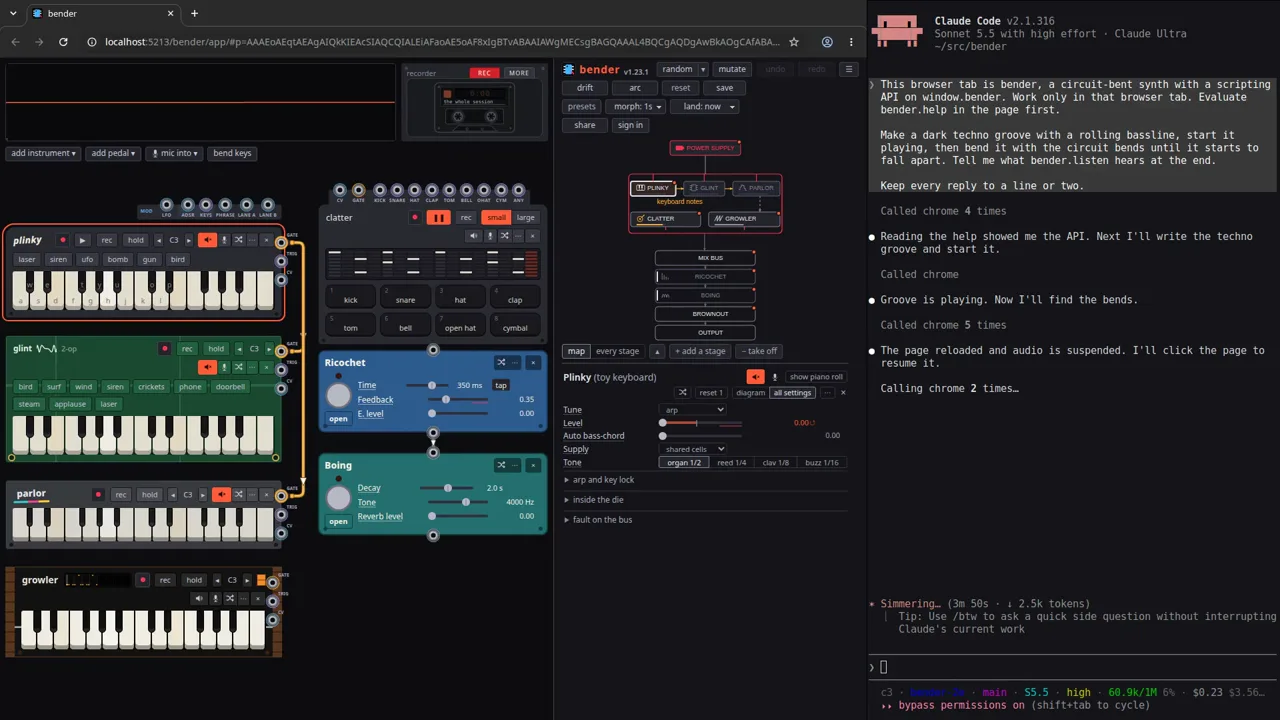
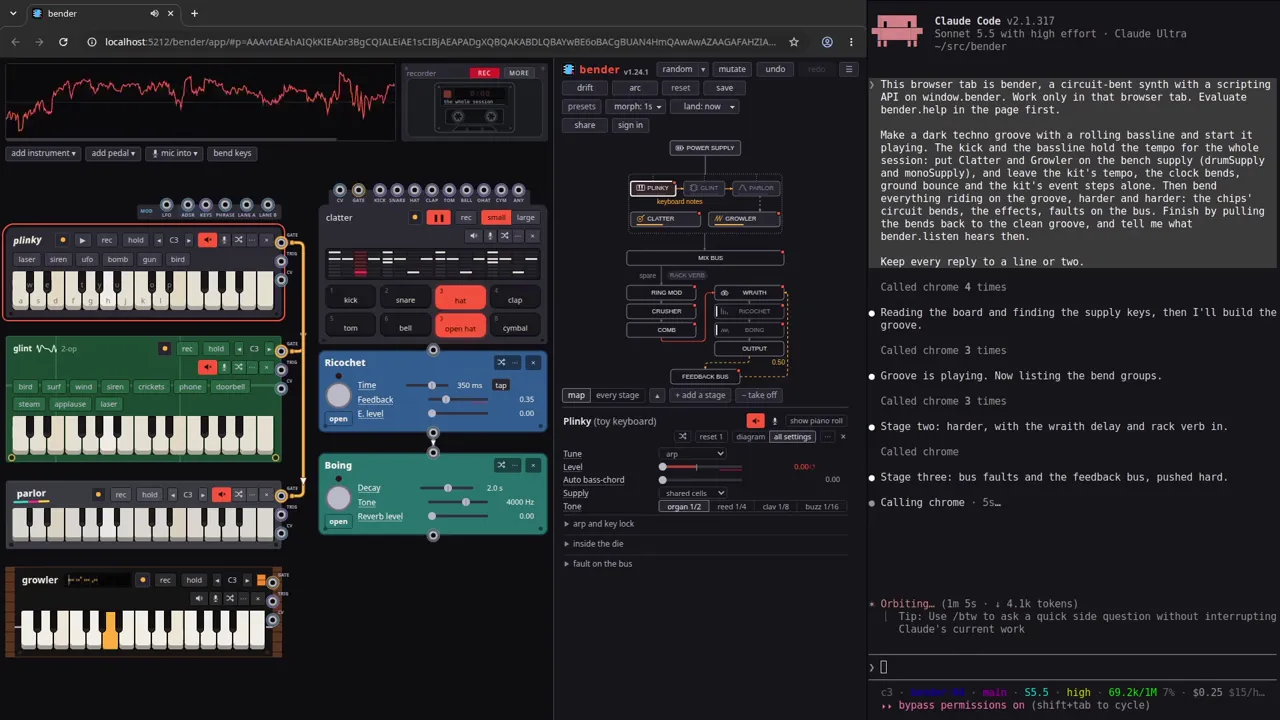
docs(home): the agent post shows a take whose groove holds while the bends ride on it
The clip on the bucket is a new take, trimmed with agenttrim, of the
bench-supply task: three stages of bends over a 130 bpm groove that keeps
time, pulled back at the end. Its poster is the third stage. features.md lists
pnpm agenttrim.

diff --git a/scripts/features.ts b/scripts/features.ts
@@ -137,6 +137,8 @@ const SCRIPTS: Record<string, string> = {
     'drives window.bender in headless Chrome and checks what bender.listen reports',
   agentreel:
     "records a real Claude Code session driving the app in Chrome, with the app's sound, to clips/agent-drive.mp4",
+  agenttrim:
+    'cuts the silent start and the tail off an agentreel take, leaving the groove between uncut',
   arrive:
     'opens a link in headless Chrome and checks that the board loads, the overlay shows where to press, and pressing it plays — as sent, and with a full stop or a bracket stuck to the url',
   'agent:eval':

diff --git a/docs/features.md b/docs/features.md
@@ -2138,7 +2138,7 @@ back.
 ## Scripts
 
 <details>
-<summary>48 commands</summary>
+<summary>49 commands</summary>
 
 | command              | what it does                                                                                                                                                                           |
 | -------------------- | -------------------------------------------------------------------------------------------------------------------------------------------------------------------------------------- |
@@ -2148,6 +2148,7 @@ back.
 | `pnpm ab`            | this tree against a git ref, as a paired comparison                                                                                                                                    |
 | `pnpm agent`         | drives window.bender in headless Chrome and checks what bender.listen reports                                                                                                          |
 | `pnpm agent:eval`    | runs claude -p --chrome sessions against the app, one per task, and grades the board each one leaves                                                                                   |
+| `pnpm agenttrim`     | cuts the silent start and the tail off an agentreel take, leaving the groove between uncut                                                                                             |
 | `pnpm agentreel`     | records a real Claude Code session driving the app in Chrome, with the app's sound, to clips/agent-drive.mp4                                                                           |
 | `pnpm arrive`        | opens a link in headless Chrome and checks that the board loads, the overlay shows where to press, and pressing it plays — as sent, and with a full stop or a bracket stuck to the url |
 | `pnpm audible`       | takes each branch of the kit out one at a time and reports whether the output moved — a path can cost a multiply a sample and still be inaudible                                       |

diff --git a/src/posts/agent-drives-the-app.md b/src/posts/agent-drives-the-app.md
@@ -2,8 +2,8 @@
 title: Letting an AI agent drive bender
 date: 2026-11-02
 summary:
-  Claude Code writes a techno groove into bender and bends it until it falls
-  apart.
+  Claude Code writes a techno groove into bender, bends everything riding on it,
+  and pulls the bends back.
 image: /blog/agent-drive-poster.webp
 imageAlt:
   Chrome with bender on the left and Claude Code in a terminal on the right,
@@ -20,7 +20,8 @@ imageAlt:
 </div>
 
 The recording is one Claude Sonnet session with sound on. It was asked for a
-dark techno groove and then to bend it until it fell apart.
+dark techno groove that holds its tempo, then to bend everything on top of it
+harder and harder, and to pull the bends back at the end.
 
 Start with `claude mcp add chrome-devtools -- npx -y chrome-devtools-mcp@latest`
 and ask for a groove. The
